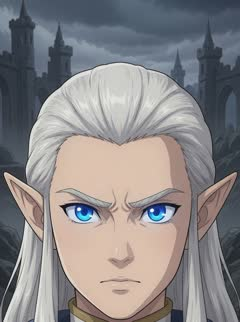
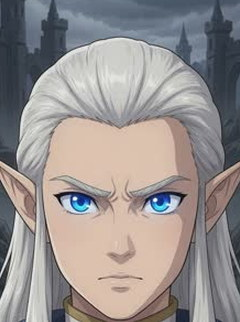
三張選角頭像重新取景，頭的大小與高低對齊
量法：14 張排成 montage、y=210 畫基準線，再逐張看瞳距（瞳孔中心的 x 距離，
頭部大小最穩的代理值）。膚色偵測不能用——金髮與盔甲會被判成皮膚。

- paladin 瞳距只有 44（別人 60-64）→ zoom 1.30
- dragon_knight 眼線 150（別人 205-218）→ dy -46
- archmage 眼線 207 但頭頂留白多 → zoom 1.10 / dy +14

dragon_knight 的髮梢本來就頂到上緣，往下移代表裁切框要伸出畫面外，
上方用鏡射+高斯模糊補 32px（那帶是暗色天空，看不出來）。

避開重跑就毀掉的陷阱：原圖另存 portraits/_orig/，工具永遠只讀那裡，
連跑兩次 md5 相同。generate_audio.py / gen_sfx_v2.py 都被同類陷阱咬過。

Claude-Session: https://claude.ai/code/session_01499oPV8s2HnsVoiMQYx47v

diff --git a/js/assetVersions.js b/js/assetVersions.js
@@ -132,17 +132,17 @@ window.HF_ASSET_V = {
 "assets/heroes/princess.png":"96218e6b94",
 "assets/heroes/ranger.png":"2fc49c63c5",
 "assets/heroes/portraits/amazon.jpg":"ba69400e54",
-"assets/heroes/portraits/archmage.jpg":"88a46a2329",
+"assets/heroes/portraits/archmage.jpg":"6540e261ce",
 "assets/heroes/portraits/assassin.jpg":"39eb4b429f",
 "assets/heroes/portraits/axeman.jpg":"11f383f4aa",
 "assets/heroes/portraits/dark_elf.jpg":"59a535eae3",
 "assets/heroes/portraits/dark_fighter.jpg":"431d0b4d67",
 "assets/heroes/portraits/dark_mage.jpg":"ad8268fd96",
-"assets/heroes/portraits/dragon_knight.jpg":"f1a3166130",
+"assets/heroes/portraits/dragon_knight.jpg":"ead2c26b33",
 "assets/heroes/portraits/knight.jpg":"19c2e34511",
 "assets/heroes/portraits/monk.jpg":"62f61e3d26",
 "assets/heroes/portraits/orc_archer.jpg":"7ef9ed013a",
-"assets/heroes/portraits/paladin.jpg":"3400cbdc6f",
+"assets/heroes/portraits/paladin.jpg":"d992348e04",
 "assets/heroes/portraits/princess.jpg":"a440ebe206",
 "assets/heroes/portraits/ranger.jpg":"f10aef4e72",
 "assets/audio/bgm/battle.mp3":"712fbb782a",

diff --git a/index.html b/index.html
@@ -67,7 +67,7 @@
           而且開著不重整就永遠不會重抓），所有 ?v= 都不會生效 ——
           那時這行會停在舊版本號，或整行不存在。**改版時記得改這裡。**
         -->
-        <p class="build-stamp" id="build-stamp">v1.37 · 0815-0300</p>
+        <p class="build-stamp" id="build-stamp">v1.38 · 0815-1112</p>
         <!-- 偵測到線上有新版時才出現；點一下重新載入 -->
         <button class="build-update" id="build-update" type="button" hidden>有新版本 · 點一下更新</button>
       </div>
@@ -343,7 +343,7 @@
     </div>
   </div>
   <!-- 逐檔素材版本表：由 tools/gen_asset_versions.py 產生，必須排在其他腳本之前 -->
-  <script src="js/assetVersions.js?v=5ea9c51bfd"></script>
+  <script src="js/assetVersions.js?v=068e3636fb"></script>
   <script src="js/data.js?v=3"></script>
   <script src="js/rng.js?v=7"></script>
   <script src="js/videoPlayer.js?v=28"></script>

diff --git a/tools/fix_portrait_framing.py b/tools/fix_portrait_framing.py
@@ -1,0 +1,109 @@
+#!/usr/bin/env python3
+"""重新取景選角頭像，讓每張的頭大小與高低一致。
+
+睿哥 2026-08-15：「聖騎士的頭明顯比大家小，放大一點盡量與其他的頭比例一致；
+大魔導士頭的位置太低了；龍騎士頭的位置太高了。」
+
+**怎麼量的**：把 14 張頭像排成montage，在 y=210 畫一條基準線，
+再逐張看瞳孔中心的 x 距離（瞳距是頭部大小最穩的代理值，不受髮型與盔甲干擾）。
+量出來：
+
+    基準（多數人）  瞳距 60–64px，眼線 y ≈ 205–218
+    paladin        瞳距 **44**（＝別人的 0.7），眼線 205  → 頭明顯小
+    dragon_knight  眼線 **150**（比別人高 60px）        → 頭明顯高
+    archmage       眼線 207（本身還好），但頭頂上方留白比別人多 → 看起來偏低
+
+⚠ **一定要從 `_orig/` 讀，不要從輸出檔讀。** 這支會覆蓋
+`assets/heroes/portraits/<id>.jpg`；如果來源就是輸出檔，重跑一次就會**再縮放一次**，
+跑幾次頭就爆掉。專案已經被同類陷阱咬過兩次（`generate_audio.py`、`gen_sfx_v2.py`），
+所以這裡把原圖另存一份在 `_orig/`，本檔永遠只讀那裡 —— 重跑幾次結果都一樣。
+
+用法：
+
+    python3 tools/fix_portrait_framing.py          # 套用下面 ADJUST 的設定
+    python3 tools/fix_portrait_framing.py --check  # 只印出會怎麼裁，不寫檔
+
+改完記得跑 `python3 tools/gen_asset_versions.py`。
+"""
+
+from __future__ import annotations
+
+import argparse
+import math
+import shutil
+from pathlib import Path
+
+from PIL import Image, ImageFilter
+
+ROOT = Path(__file__).resolve().parent.parent
+PORTRAITS = ROOT / "assets" / "heroes" / "portraits"
+ORIG = PORTRAITS / "_orig"
+SIZE = (240, 322)
+
+# zoom：>1 放大（頭變大）。dy：正值把畫面內容**往上**移（頭上移），負值往下。
+# 兩個值都是以原圖 322px 高為單位。
+ADJUST = {
+    # 瞳距 44 → 目標約 60，所以放大 1.30；順便把眼線壓回 210 附近
+    "paladin": {"zoom": 1.30, "dy": 6},
+    # 眼線本來就在 207，問題是頭頂留白太多 —— 往上收一點並略放大
+    "archmage": {"zoom": 1.10, "dy": 14},
+    # 眼線 150 太高，要把頭往下移。它的髮梢已經頂到上緣，
+    # 所以裁切框得伸到畫面外，上方不足的部分用鏡射＋模糊補
+    #（那一帶是暗色天空與城堡剪影，補完看不出來）。
+    "dragon_knight": {"zoom": 1.10, "dy": -46},
+}
+
+
+def extend_top(img: Image.Image, pad: int) -> Image.Image:
+    """在上緣補 `pad` 像素：取頂端同高的一條鏡射後重模糊，接縫看不出來。"""
+    if pad <= 0:
+        return img
+    strip = img.crop((0, 0, img.width, min(pad, img.height)))
+    strip = strip.transpose(Image.FLIP_TOP_BOTTOM).filter(ImageFilter.GaussianBlur(6))
+    if strip.height < pad:
+        strip = strip.resize((img.width, pad), Image.LANCZOS)
+    out = Image.new("RGB", (img.width, img.height + pad))
+    out.paste(strip, (0, 0))
+    out.paste(img, (0, pad))
+    return out
+
+
+def reframe(src: Image.Image, zoom: float, dy: float) -> tuple[Image.Image, str]:
+    w, h = SIZE
+    cw, ch = w / zoom, h / zoom
+    cx, cy = src.width / 2, src.height / 2 + dy
+    top = cy - ch / 2
+    # 用 ceil 不用 round：四捨五入會少補一個像素，top 就會剩下 -0.4，
+    # PIL 的 resize(box=...) 不吃負的偏移，直接 ValueError。
+    pad = max(0, math.ceil(-top))
+    work = extend_top(src, pad)
+    top += pad
+    left = cx - cw / 2
+    box = (left, top, left + cw, top + ch)
+    note = f"zoom {zoom:.2f} dy {dy:+.0f} 裁切 {tuple(round(v) for v in box)}"
+    if pad:
+        note += f" · 上緣補 {pad}px"
+    return work.resize(SIZE, Image.LANCZOS, box=box), note
+
+
+def main() -> None:
+    ap = argparse.ArgumentParser()
+    ap.add_argument("--check", action="store_true", help="只印出會怎麼裁，不寫檔")
+    args = ap.parse_args()
+
+    ORIG.mkdir(parents=True, exist_ok=True)
+    for hero, adj in ADJUST.items():
+        live = PORTRAITS / f"{hero}.jpg"
+        keep = ORIG / f"{hero}.jpg"
+        # 第一次執行時把原圖存起來；之後永遠以它為來源
+        if not keep.exists():
+            shutil.copy2(live, keep)
+            print(f"{hero}: 原圖已備份到 _orig/")
+        out, note = reframe(Image.open(keep).convert("RGB"), adj["zoom"], adj["dy"])
+        print(f"{hero:<15}{note}")
+        if not args.check:
+            out.save(live, quality=88, subsampling=1, optimize=True)
+
+
+if __name__ == "__main__":
+    main()

diff --git a/PROJECT_NOTES.md b/PROJECT_NOTES.md
@@ -7,7 +7,7 @@
 ## 目前狀態
 
 - 最後更新：2026-08-14（Claude Code）
-- 進度：可玩 **v1.37**（v1.9 的 3 支修正影片＋7 個角色改名＋確定動畫可點擊跳過＋展翼版魔王立繪 `boss_model_v3.png` 與新的魔王降臨影片）；14 角色影片（wait／confirm／attack／victory 各 14 支，CRF 29 共 26MB）；使用者製作的開始選單伴奏＋14 角選角專屬 BGM 精華、3 首原有場景 BGM、14 角各自攻擊／勝利音效、完整 UI／魔王聲效；角色卡切換會平滑換曲，首頁音效按鈕與設定圖示會依開關在 🔊／🔇 間同步切換；14 張選角卡完整排成 7×2
+- 進度：可玩 **v1.38**（v1.9 的 3 支修正影片＋7 個角色改名＋確定動畫可點擊跳過＋展翼版魔王立繪 `boss_model_v3.png` 與新的魔王降臨影片）；14 角色影片（wait／confirm／attack／victory 各 14 支，CRF 29 共 26MB）；使用者製作的開始選單伴奏＋14 角選角專屬 BGM 精華、3 首原有場景 BGM、14 角各自攻擊／勝利音效、完整 UI／魔王聲效；角色卡切換會平滑換曲，首頁音效按鈕與設定圖示會依開關在 🔊／🔇 間同步切換；14 張選角卡完整排成 7×2
 - 路徑：`/Users/longxia7hao/Heroes_Fate/`
 - **開工必讀（會自動載入，跨裝置都有效）：`CLAUDE.md`**；架構長篇說明：`AGENT_HANDOFF.md`（內文現況數字是 2026-08-01 的舊值，只當背景讀）
 - **GitHub（2026-08-13 建立）**：`longxia7hao-dev/heroes-fate`（公開），版本控制 265 檔約 73MB；`assets/anim`（128MB）與舊高碼率原片 `assets/videos/{wait,confirm,victory}`（272MB）由 `.gitignore` 排除，只留本機與 Drive
@@ -43,6 +43,7 @@
 
 ## 變更日誌
 
+- 2026-08-15｜Claude Code｜**v1.38 三張選角頭像重新取景（頭的大小與高低對齊）**：①睿哥：「聖騎士的頭明顯比大家小；大魔導士頭的位置太低；龍騎士頭的位置太高。」②**量法**：14 張排成 montage、在 **y=210** 畫基準線，再逐張看**瞳距**（瞳孔中心的 x 距離 —— 這是頭部大小最穩的代理值，不受髮型與盔甲干擾；**膚色偵測不能用**，金髮與盔甲會被判成皮膚，量出來 paladin 反而變最寬）。量到：多數人瞳距 60–64px、眼線 205–218；**paladin 瞳距只有 44**（別人的 0.7）、**dragon_knight 眼線 150**（高了 60px）、archmage 眼線 207 但頭頂留白比別人多。③新增 `tools/fix_portrait_framing.py`，以 `zoom`／`dy` 重新取景：paladin 1.30／+6、archmage 1.10／+14、dragon_knight 1.10／**−46**。④dragon_knight 的髮梢本來就頂到上緣，往下移代表**裁切框要伸出畫面外**，上方不足處用**鏡射＋高斯模糊**補 32px（那一帶是暗色天空與城堡剪影，補完看不出來）。⑤**避開重跑就毀掉的陷阱**：這支會覆蓋 `portraits/<id>.jpg`，若來源就是輸出檔，重跑一次就再縮放一次。所以原圖另存 `portraits/_orig/`（44KB），**本檔永遠只讀那裡** —— 已實測連跑兩次 md5 完全相同。（`generate_audio.py`／`gen_sfx_v2.py` 都被同類陷阱咬過，這次一開始就擋掉。）⑥這三張同時用在**選角格**與**命運排序的牌面**，兩邊都吃 `heroThumb()`，逐檔雜湊會自動換網址。⑦版本表 068e3636fb；版本印記 `v1.38`。⑧**實測**：改後 montage 三張的眼線都落在基準線上、頭的大小與鄰居相當；選角格 4x 截圖確認，console error 0。
 - 2026-08-15｜Claude Code｜**v1.37 卡片正面：整張臉跟肩膀完整露出**：①睿哥：「卡片的正面能讓角色的整張臉跟肩膀露出來嗎？現在都被切掉。」**是兩件事疊起來造成的**：(a) `object-fit: cover` 把 **0.745 的頭像**塞進 **0.667 的卡**（卡片為了配合卡背素材是 2:3），左右各裁掉 5%，肩膀先斷一截；(b) 名次條用漸層**壓在圖上**、蓋住下面三成，剩下的肩膀也沒了。②頭像素材（240×322）本身就是很緊的「臉＋肩膀」構圖，**肩膀就貼在下緣**，所以只要裁一點或蓋一點就會不見。③改成上下兩段的 flex：圖用 **`object-fit: contain` 完整顯示不裁切**，名次條**自己佔一條**放在圖下方（不再是絕對定位疊上去）。④`min-height: 0` 一樣不能省 —— flex 子項預設 `min-height: auto`，不歸零的話圖會把名次條擠出卡片外。⑤左右各留約 5px 的黑邊（0.745 的圖放進 0.667 的框），底色是深色所以幾乎看不出來；要完全沒有黑邊就得重切一套 2:3 的頭像，那要動素材，先不做。⑥快取：ornate.css?v=9→10；版本印記 `v1.37`。⑦**實測**：`object-fit` 為 `contain`、六張牌名次 1..6、翻面數等於總數；5x 放大截圖確認每張都看得到完整的臉與肩膀。
 - 2026-08-15｜Claude Code｜**v1.36 命運排序換上睿哥的開場影片與卡背**：①**卡背**：`assets/ui/card_back.webp`（六芒星魔法陣＋金框，320×480／44.6KB）。**卡片比例從 3:4 改成 2:3** —— 那是**素材本身的比例**（1152×1728）；維持 3:4 的話那張圖不是被裁掉外框就是被拉扁，所以是卡片配合素材。英雄頭像（240×322）在 2:3 框裡用 `cover` 只裁掉一點左右，角色是置中的沒問題。②**開場影片**：`assets/videos/mobile/order/intro.mp4`，取代先前借用的 `boss/arrival.mp4`。**原片 1152×1728／24Mb/s／18.3MB，4G 上根本不可能**；壓成 720×1080、CRF 30、**1.09MB**（掃過 CRF 28／30／32 得 1473／1093／812KB，30 與既有的 `boss/arrival.mp4` 1386KB 同級）。③**音軌拿掉**：原片帶 AAC（-32 dBFS 的低量環境音），但**舞台影片一律靜音播放**（iOS 自動播放的硬性條件），留著只是負重。要用那段聲音的話得另外抽成音效 cue。④poster 一併重製：`assets/videos/poster/order/intro.jpg`（720×1080／113KB）。⑤**`CLAUDE.md` 那條「雲端做不到 ffmpeg 轉檔」已更正** —— 這條從 v1.22 起就被發現是錯的，拖到現在才改。`pip install imageio-ffmpeg` 帶的是靜態 ffmpeg 7.0.2，H.264／AAC 都能解能編。⑥快取：game.js?v=67→68、ornate.css?v=8→9、版本表 5ea9c51bfd；**卡背走 CSS `url()`，吃不到逐檔雜湊表，換圖要手動 +`?v=`**（目前 `?v=1`）。⑦**實測**：`order/intro.mp4` 與 `order/intro.jpg`、`ui/card_back.webp` 皆 200；卡片實測比例 **0.667**（＝2:3）、六張一列無溢出、翻面後名次仍是 1..N，console error 0。
 - 2026-08-15｜Claude Code｜**v1.35 命運排序改成「開場影片 ＋ 牌陣同時翻面」**：①睿哥指定的演出：先播一段影片（跟魔王討伐同一個排面），然後每位角色化成一張牌，**卡背朝上**排出來（一眼數得出有幾張），**同時翻面**，正面是英雄的樣貌，由左至右就是第一名到最後一名。取代原本「一位一位站出來」的版本。②開場片沿用 `boss/arrival.mp4` —— **目前唯一的全螢幕開場片**。若要排序專用的片再說。③**名次仍然是 seed-first**：`result.order` 早在 `seedRun()` 就定案，`presentOrderCards()` 只是照索引排牌，不做任何抽樣（鐵則沒有被動到，rng.js 也沒碰）。④**踩到撞名，查了半天**：第一版把類別取名 `.fate-card`／`.fc-*`，但 **revamp.css 2415 行的 `.fate-card` 是「命運卡揭曉」那一層**（還有 `.fc-name`／`.fc-desc`／魔法陣的 `.fc-rune`）。結果卡背正常、**卡片正面被那邊的樣式接管，量出來只有 20×23px**，變成一顆小圓點。全部改名為 **`rank-*`／`rk-*`** 並在 CSS 就地寫下警告。**這是這個專案第三次因為「重用既有名字」出事**（前兩次是 `::after`）。⑤**第二個坑：自訂屬性被自己蓋掉**。JS 把算好的卡片寬度設在容器上，但 `.fate-card` 自己也宣告了一次 `--fc-w: 56px` —— **自己的宣告會蓋掉繼承來的值**，所以算出 70px 卻永遠畫成 56px。預設值改放容器上。⑥**第三個坑：寬度沒扣 gap**，五張就從一列擠成兩列；改成 `min(calc((100% - (n-1)*gap) / n), 78px)`，由 CSS 算才知道容器實際多寬。⑦翻面用標準 3D 兩面（`preserve-3d` ＋ `backface-visibility: hidden` ＋ 背面預轉 180°），**不要改成 opacity 互換** —— 那看起來是淡出淡入不是翻面。整段包 try/finally，跳過或出錯牌陣一定收掉。⑧快取：game.js?v=66→67、ornate.css?v=7→8；版本印記 `v1.35`。⑨**實測**（393×660 與 360×600，2／4／5／6／7／13 人）：牌數正確、**由左至右名次 1..N**、同時翻面（flipped 等於總數）、13 人折成 7＋6 兩列、**無橫向溢出**、console error 0；排序結果頁的名單也正常（沿用 v1.34 的 `.result-list`）。
